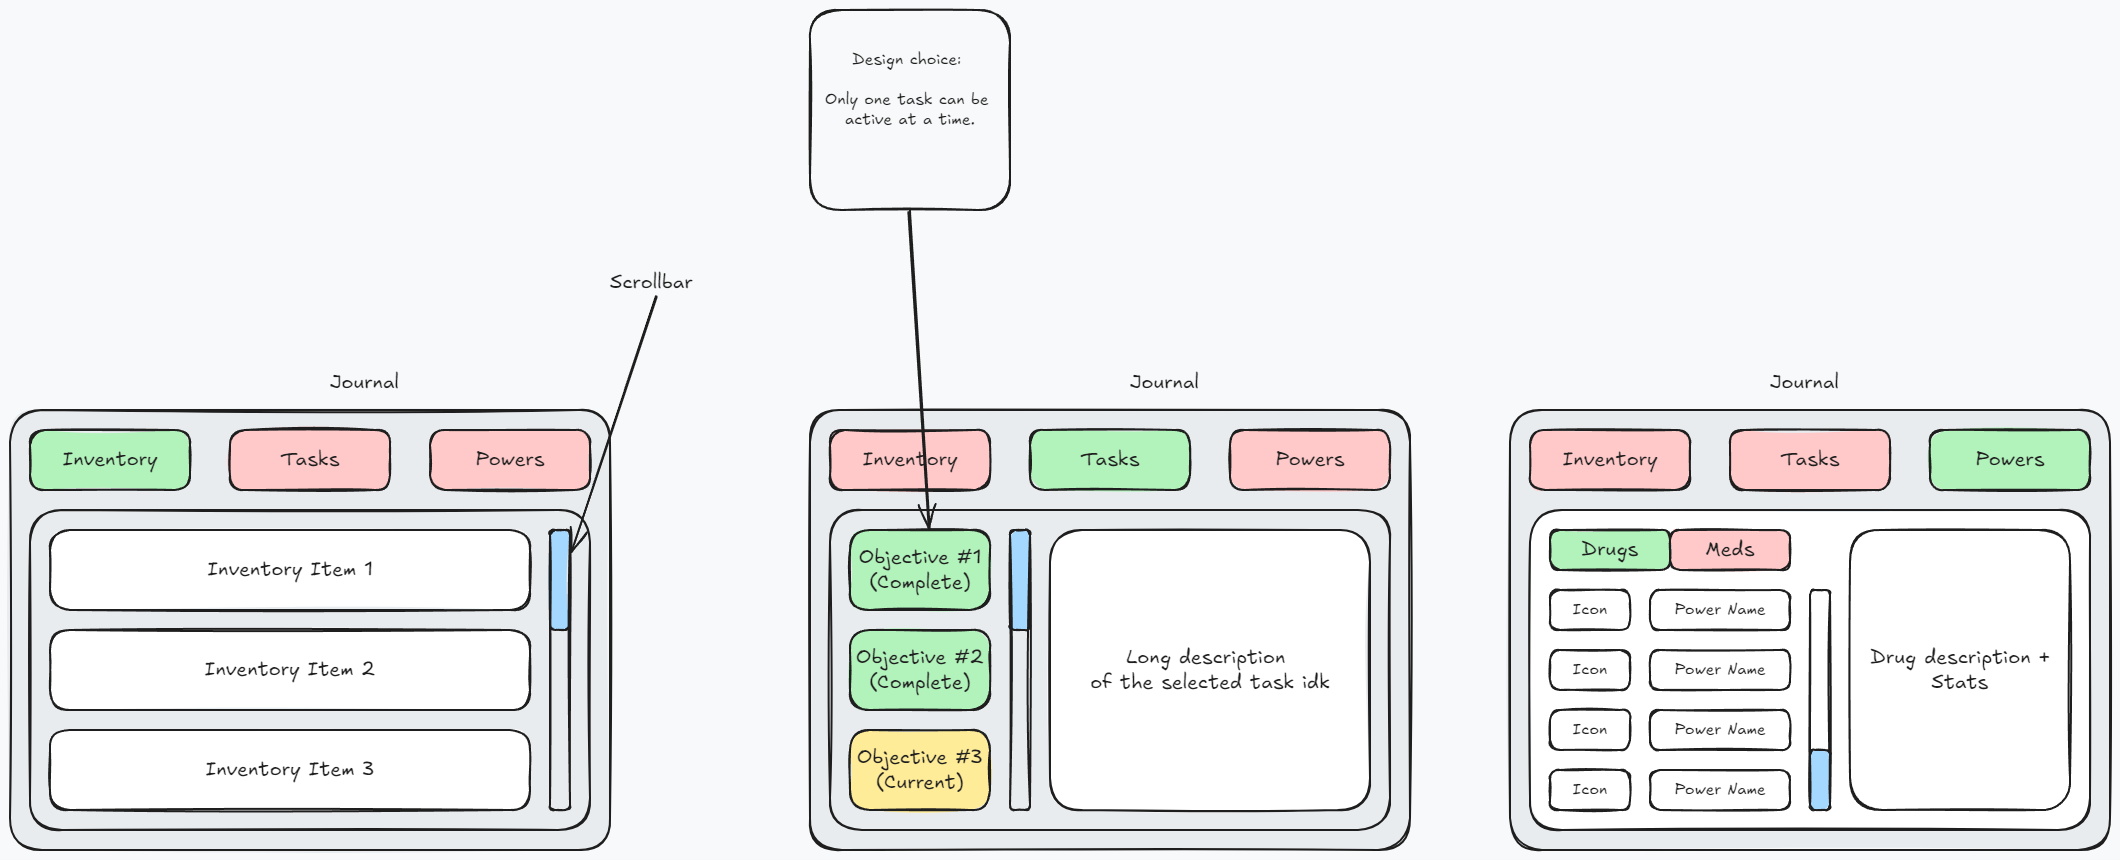
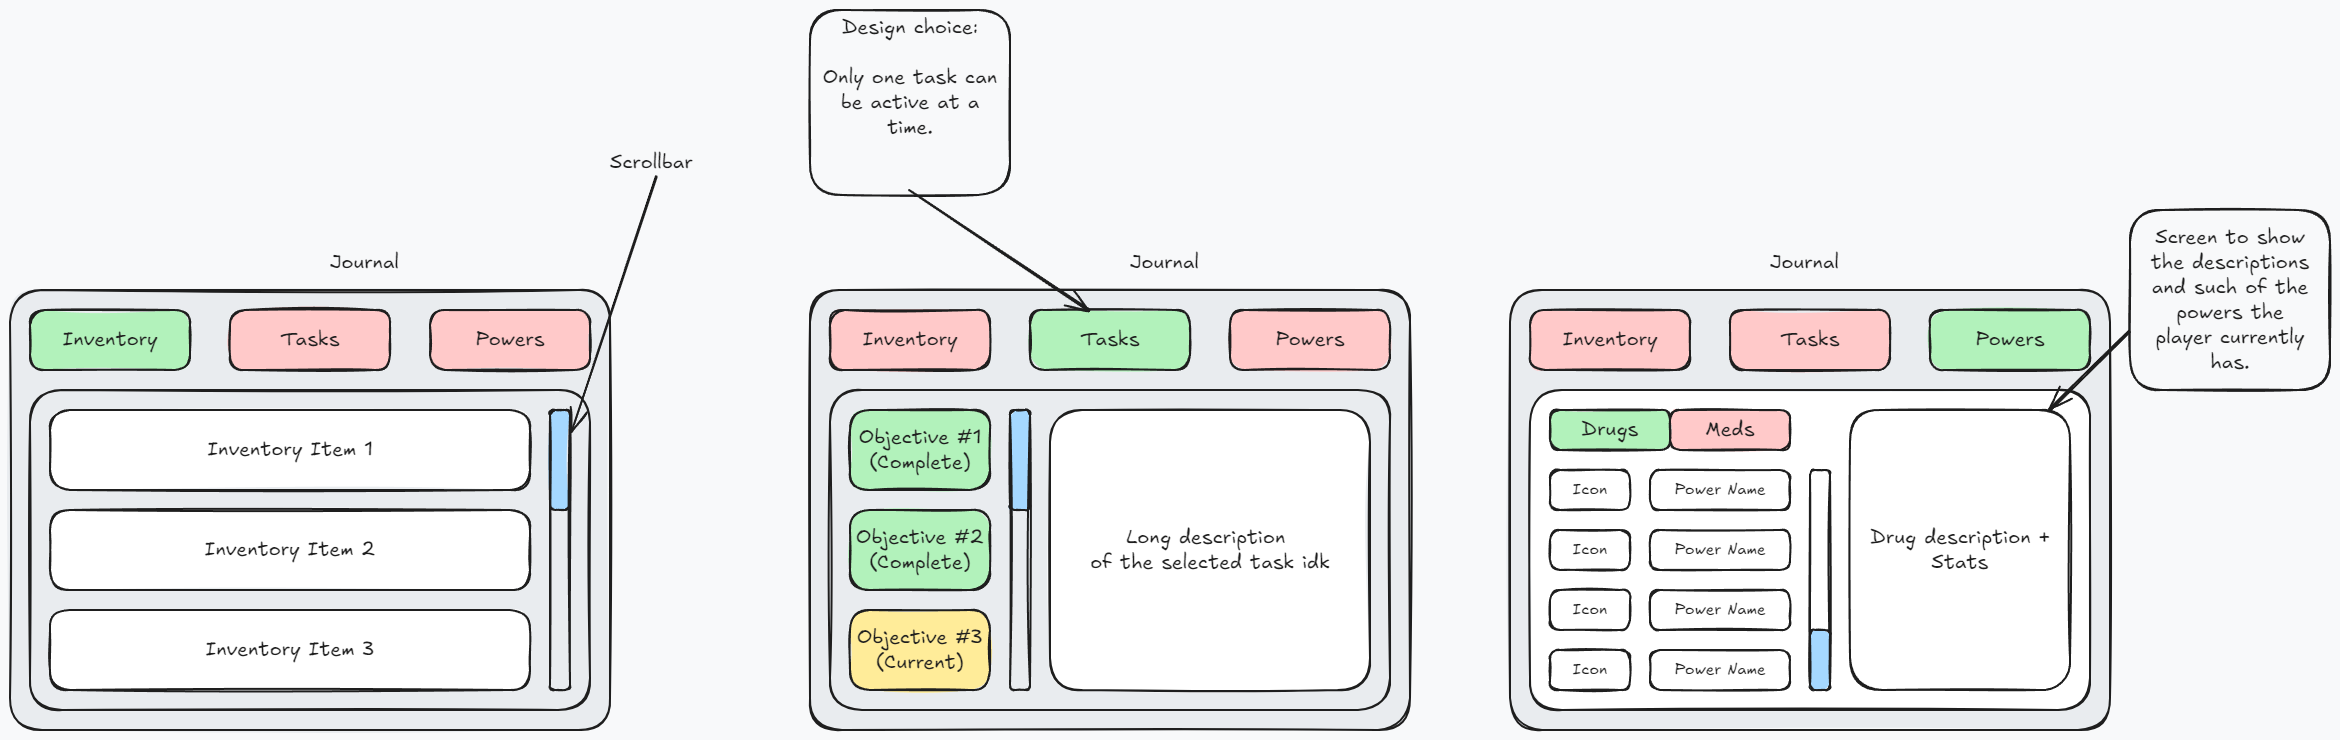
vault backup: 2024-11-26 16:35:10

diff --git a/_META/Excalidraw/Journal Breakdown.md b/_META/Excalidraw/Journal Breakdown.md
@@ -36,13 +36,6 @@ Objective #3 (Current) ^MNQoIbm7
 Long description 
 of the selected task idk ^SRWnLASo
 
-Design choice: 
-
-Only one task can be 
-active at a time.
-
- ^icXNeWGP
-
 Powers ^jjOv57u8
 
 Tasks ^ub0Ss0Pi
@@ -78,6 +71,16 @@ Icon ^kl8PibC5
 Icon ^tpvXluyJ
 
 Power Name ^0DvZff3A
+
+Screen to show the descriptions
+and such of the powers the 
+player currently has. ^53nJ5szj
+
+Design choice:
+
+Only one task can be active at a time.
+
+ ^rN8cuadH
 
 %%
 ## Drawing
@@ -142,116 +145,124 @@ hG7ki65/xe5zqxHBJn2bM1W4OR0iYTWebYDJNLbcFid8DEs77Ss2s9YWMtd9s7s/Mk5nxV+4cxnXbRdy
 
[1 lines of base64/hex data omitted]
 
[2 lines of base64/hex data omitted]
 
[2 lines of base64/hex data omitted]
 
[2 lines of base64/hex data omitted]
 
[2 lines of base64/hex data omitted]
 
[2 lines of base64/hex data omitted]
 
[2 lines of base64/hex data omitted]
 
[2 lines of base64/hex data omitted]
 
[2 lines of base64/hex data omitted]
 
[2 lines of base64/hex data omitted]
 
[2 lines of base64/hex data omitted]
 
[2 lines of base64/hex data omitted]
 
[2 lines of base64/hex data omitted]
 
[2 lines of base64/hex data omitted]
 
[2 lines of base64/hex data omitted]
 
[2 lines of base64/hex data omitted]
 
[2 lines of base64/hex data omitted]
 
[2 lines of base64/hex data omitted]
 
[2 lines of base64/hex data omitted]
 
[2 lines of base64/hex data omitted]
 
[2 lines of base64/hex data omitted]
 
[2 lines of base64/hex data omitted]
 
[2 lines of base64/hex data omitted]
 
[2 lines of base64/hex data omitted]
 
[2 lines of base64/hex data omitted]
 
[2 lines of base64/hex data omitted]
 
[2 lines of base64/hex data omitted]
 
[2 lines of base64/hex data omitted]
 
[2 lines of base64/hex data omitted]
 
[2 lines of base64/hex data omitted]
 
[2 lines of base64/hex data omitted]
 
[2 lines of base64/hex data omitted]
 
[2 lines of base64/hex data omitted]
 
[2 lines of base64/hex data omitted]
 
[2 lines of base64/hex data omitted]
 
[2 lines of base64/hex data omitted]
 
[2 lines of base64/hex data omitted]
 
[2 lines of base64/hex data omitted]
 
[2 lines of base64/hex data omitted]
 
[2 lines of base64/hex data omitted]
 
[2 lines of base64/hex data omitted]
 
[2 lines of base64/hex data omitted]
 
[2 lines of base64/hex data omitted]
 
[2 lines of base64/hex data omitted]
 
[2 lines of base64/hex data omitted]
 
[2 lines of base64/hex data omitted]
 
[2 lines of base64/hex data omitted]
 
[2 lines of base64/hex data omitted]
 
[2 lines of base64/hex data omitted]
 
[2 lines of base64/hex data omitted]
 
[2 lines of base64/hex data omitted]
 
[2 lines of base64/hex data omitted]
 
[2 lines of base64/hex data omitted]
 
[2 lines of base64/hex data omitted]
 
[2 lines of base64/hex data omitted]
 
[2 lines of base64/hex data omitted]
 
[2 lines of base64/hex data omitted]
+
[1 lines of base64/hex data omitted]
+
[1 lines of base64/hex data omitted]
+
[1 lines of base64/hex data omitted]
+
[1 lines of base64/hex data omitted]
 ```
 %%
